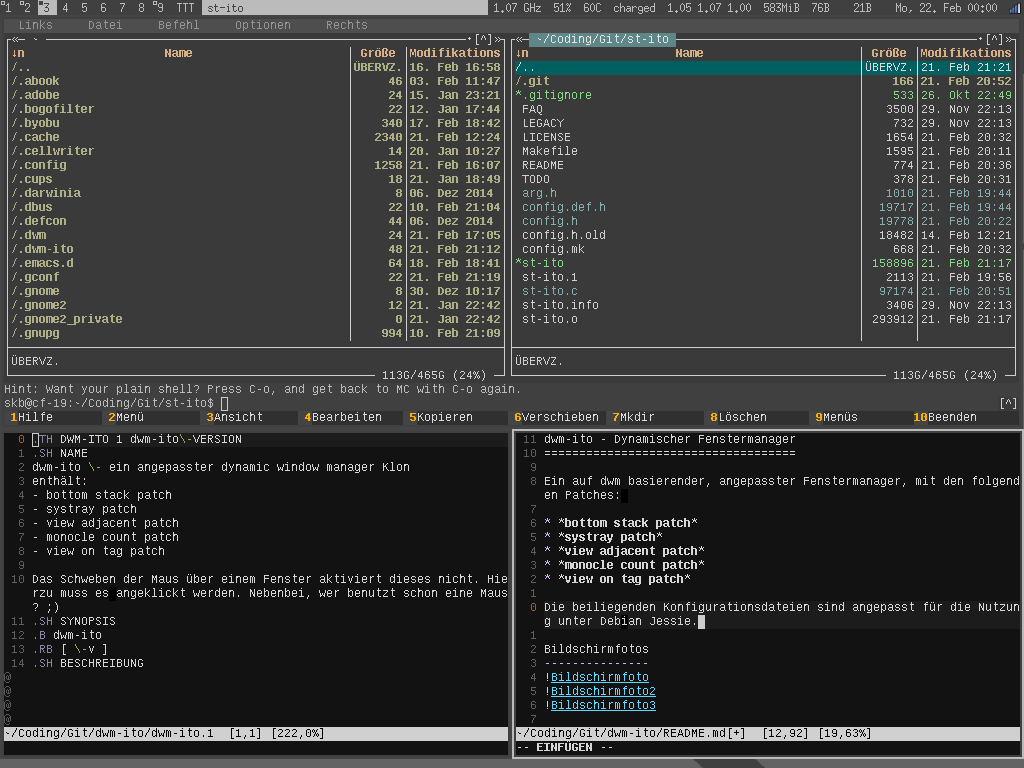
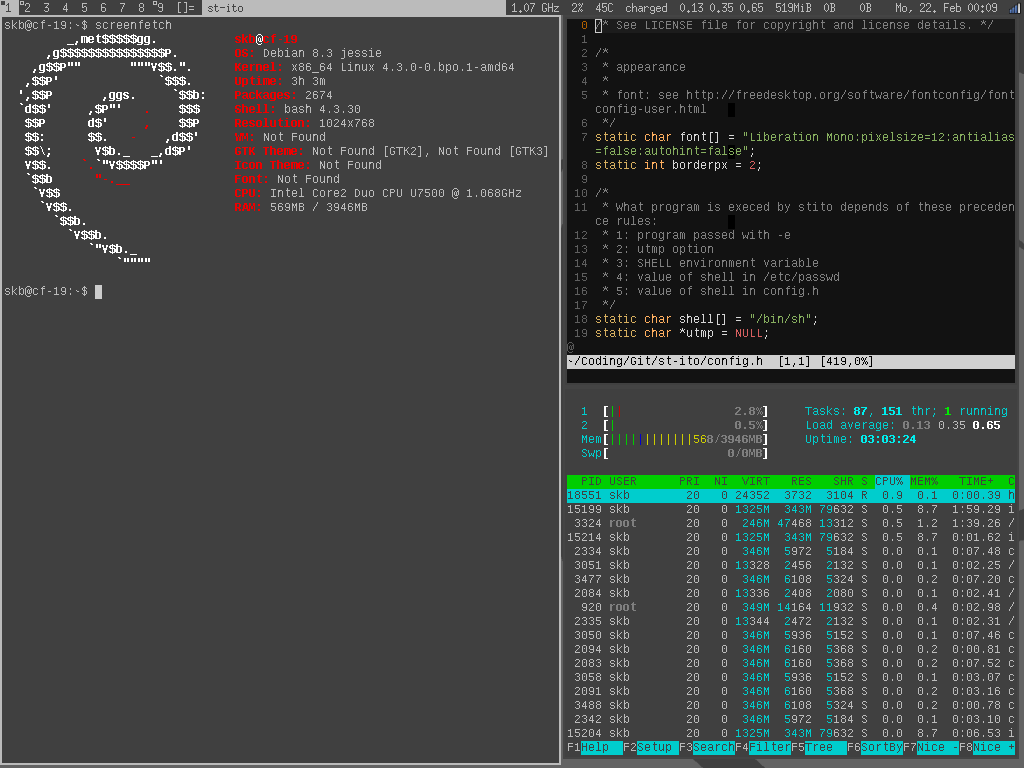
Kleine Aktualisierungen

diff --git a/config.def.h b/config.def.h
@@ -5,11 +5,11 @@
  *
  * font: see http://freedesktop.org/software/fontconfig/fontconfig-user.html
  */
-static char font[] = "Liberation Mono:pixelsize=12:antialias=true:autohint=true";
+static char font[] = "Liberation Mono:pixelsize=12:antialias=false:autohint=false";
 static int borderpx = 2;
 
 /*
- * What program is execed by st depends of these precedence rules:
+ * What program is execed by stito depends of these precedence rules:
  * 1: program passed with -e
  * 2: utmp option
  * 3: SHELL environment variable
@@ -41,8 +41,8 @@ static unsigned int tripleclicktimeout = 600;
 /* alt screens */
 static int allowaltscreen = 1;
 
-/* frames per second st should at maximum draw to the screen */
-static unsigned int xfps = 120;
+/* frames per second st-ito should at maximum draw to the screen */
+static unsigned int xfps = 60;
 static unsigned int actionfps = 30;
 
 /*
@@ -70,23 +70,23 @@ static unsigned int tabspaces = 8;
 /* Terminal colors (16 first used in escape sequence) */
 static const char *colorname[] = {
 	/* 8 normal colors */
-	"black",
+	"#404040", // "black",
 	"red3",
 	"green3",
 	"yellow3",
-	"blue2",
+	"blue3", // "blue2",
 	"magenta3",
 	"cyan3",
-	"gray90",
+	"#bbbbbb", // "gray90",
 
 	/* 8 bright colors */
 	"gray50",
-	"red",
-	"green",
-	"yellow",
+	"red2",
+	"green2",
+	"yellow2",
 	"#5c5cff",
-	"magenta",
-	"cyan",
+	"magenta2",
+	"cyan2",
 	"white",
 
 	[255] = 0,
@@ -160,7 +160,7 @@ static Shortcut shortcuts[] = {
 };
 
 /*
- * Special keys (change & recompile st.info accordingly)
+ * Special keys (change & recompile st-ito.info accordingly)
  *
  * Mask value:
  * * Use XK_ANY_MOD to match the key no matter modifiers state
@@ -179,7 +179,7 @@ static Shortcut shortcuts[] = {
  * * > 0: crlf mode is enabled
  * * < 0: crlf mode is disabled
  *
- * Be careful with the order of the definitions because st searches in
+ * Be careful with the order of the definitions because st-ito searches in
  * this table sequentially, so any XK_ANY_MOD must be in the last
  * position for a key.
  */
